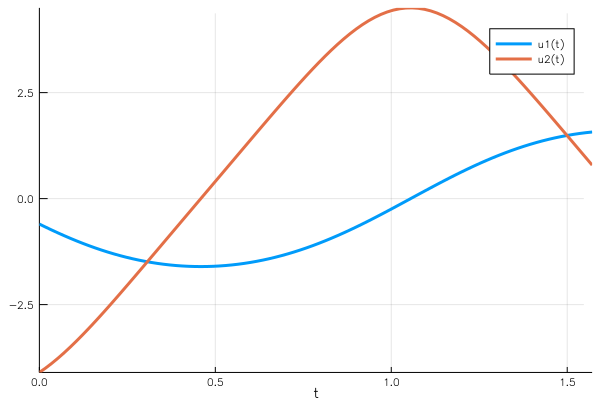
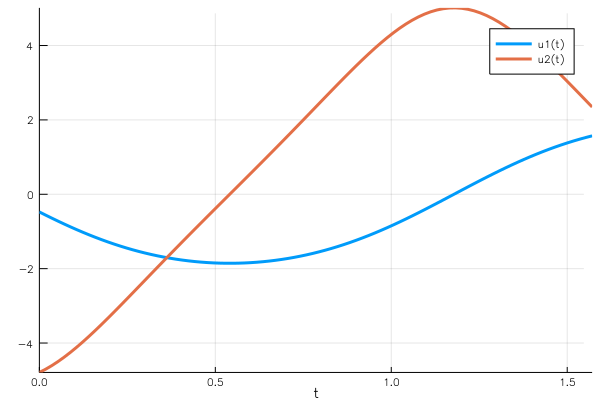
Fix indexing

diff --git a/docs/src/tutorials/bvp_example.md b/docs/src/tutorials/bvp_example.md
@@ -64,7 +64,12 @@ We have used the mono-implicit Runge–Kutta (MIRK) method to solve the BVP, but
 ```julia
 using OrdinaryDiffEq
 u₀_2 = [-1.6, -1.7] # the initial guess
-sol3 = solve(bvp1, Shooting(Vern7()))
+function bc3(residual, u)
+    residual[1] = u(pi/4)[1] + pi/2 # use the interpolation here, since indexing will be wrong for adaptive methods
+    residual[2] = u(pi/2)[1] - pi/2
+end
+bvp3 = BVProblem(simplependulum, bc3, u₀, tspan)
+sol3 = solve(bvp3, Shooting(Vern7()))
 ```
 
 Note that user has to import OrdinaryDiffEq.jl before using its IVP solvers.
